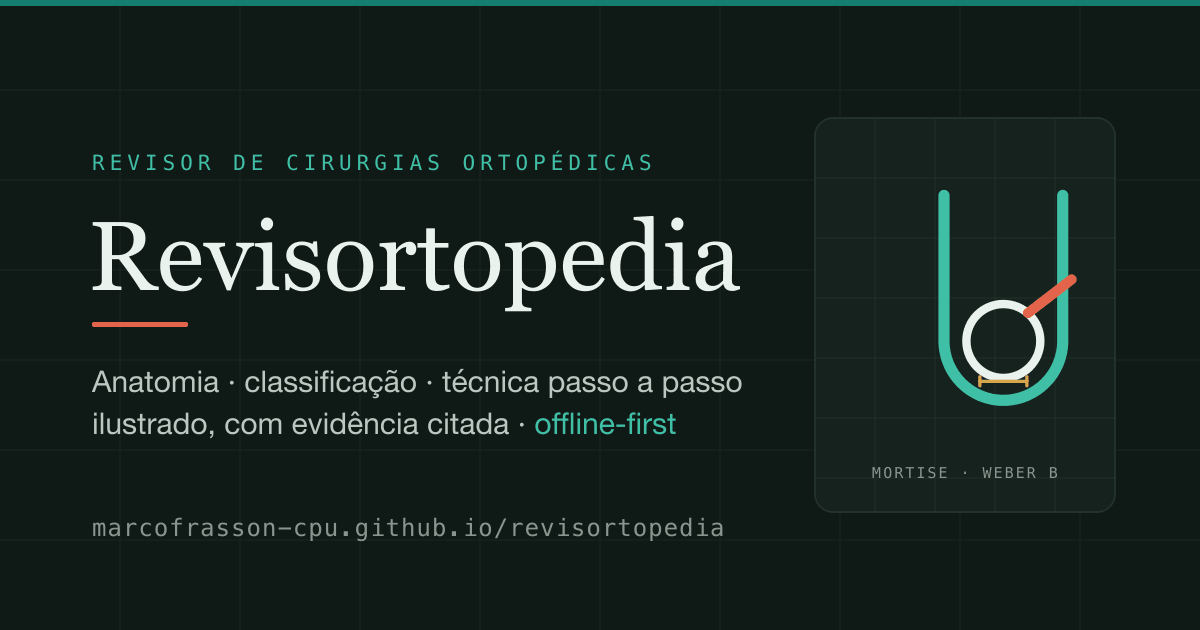
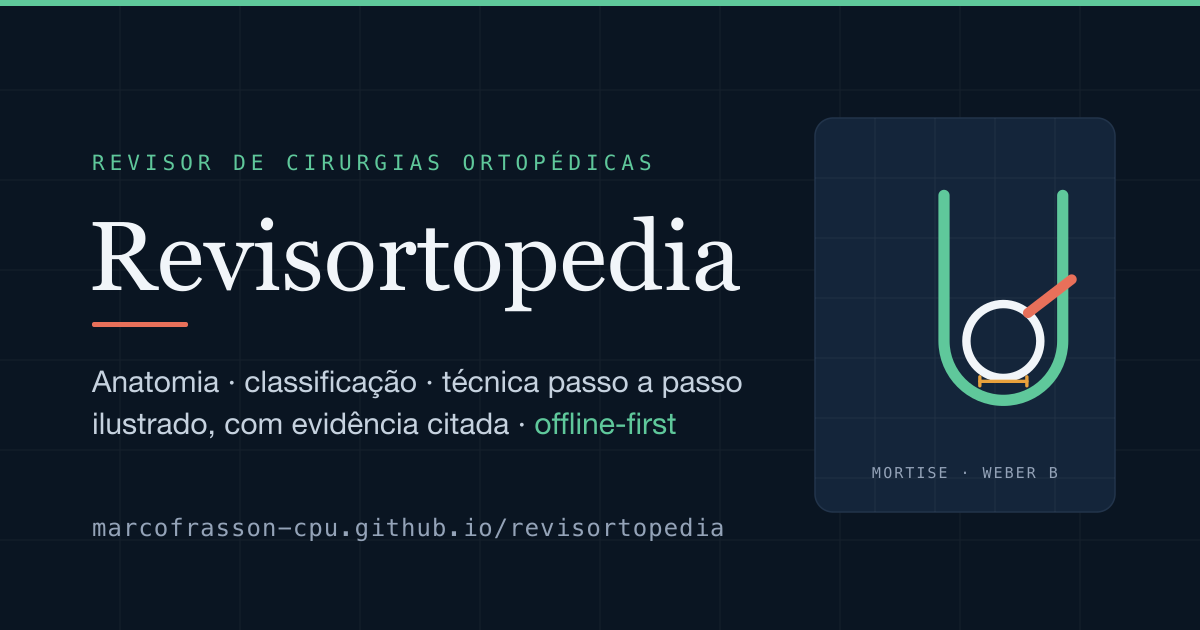
feat: navy (Axis FitoMed) dark palette, hide empty figure panel, credit pill
- Dark theme remapped to the Axis FitoMed palette: navy grounds
  (#0a1522 / #14253a), mint-green primary (#5fc89b), gold accent
  (#e8a13c), slate text. Light "atlas" theme unchanged.
- TopicView hides the sticky figure column on figure-less sections
  (e.g. Evidence) instead of showing an empty placeholder; content
  width stays stable so there's no reflow on scroll.
- Add "designed by Marco Frasson" credit pill in the nav footer.
- Update theme-color + PWA manifest to navy; regenerate the Open Graph
  share card to match (cache-bust v2).

diff --git a/src/index.css b/src/index.css
@@ -54,25 +54,25 @@
   color-scheme: light;
 }
 
-/* ---- Dark "light-box" (radiograph) ---- */
+/* ---- Dark "light-box" — navy palette (Axis FitoMed dark) ---- */
 :root[data-theme="dark"] {
-  --bg: #0f1a17;
-  --surface: #15221e;
-  --surface-2: #1c2a25;
-  --ink: #e9efea;
-  --ink-soft: #bcc7c0;
-  --muted: #8a968f;
-  --line: #28372f;
-  --line-strong: #3a4c43;
-  --teal: #43c2a8;
-  --teal-deep: #57c8ae;
-  --teal-tint: #123029;
-  --cortical: #e4644b;
-  --cortical-tint: #2e1a15;
-  --amber: #d6a64a;
-  --amber-tint: #2c2413;
-  --grid-ink: 233 239 234;
-  --shadow-panel: 0 1px 2px rgba(0, 0, 0, 0.3), 0 10px 30px -14px rgba(0, 0, 0, 0.55);
+  --bg: #0a1522;          /* ground-deep */
+  --surface: #14253a;     /* brand-navy-lighter */
+  --surface-2: #1c2f47;   /* card-hover */
+  --ink: #f1f5f9;         /* text-primary */
+  --ink-soft: #c6d2df;    /* lead */
+  --muted: #94a3b8;       /* text-muted */
+  --line: #22344b;
+  --line-strong: #2f465f;
+  --teal: #5fc89b;        /* brand-green (primary) */
+  --teal-deep: #86dcb4;
+  --teal-tint: #123a30;
+  --cortical: #e8705a;    /* semantic danger / fracture line */
+  --cortical-tint: #3a1e18;
+  --amber: #e8a13c;       /* oil / measurements */
+  --amber-tint: #3a2a12;
+  --grid-ink: 241 245 249;
+  --shadow-panel: 0 1px 2px rgba(0, 0, 0, 0.35), 0 12px 36px -14px rgba(0, 0, 0, 0.5);
   color-scheme: dark;
 }
 

diff --git a/src/components/topic/TopicView.tsx b/src/components/topic/TopicView.tsx
@@ -256,8 +256,15 @@ export default function TopicView({ topic }: { topic: Topic }) {
 
       <SectionRail visible={visible} active={active} />
 
-      <div className="lg:grid lg:grid-cols-[minmax(0,1fr)_360px] lg:gap-10">
-        <div ref={contentRef}>
+      <div
+        className={cx(
+          "lg:gap-10",
+          // Reserve the figure column only when the active section has a
+          // figure — figure-less sections (e.g. evidence) reclaim the space.
+          focused?.figureId && "lg:grid lg:grid-cols-[minmax(0,1fr)_auto]",
+        )}
+      >
+        <div ref={contentRef} className="lg:max-w-[760px]">
           {visible.map((k) => (
             <section
               id={`sec-${k}`}
@@ -299,8 +306,9 @@ export default function TopicView({ topic }: { topic: Topic }) {
           </nav>
         </div>
 
-        {/* Sticky figure panel — desktop only */}
-        <aside className="hidden lg:block">
+        {/* Sticky figure panel — desktop only, hidden when the section has no figure */}
+        {focused?.figureId && (
+        <aside className="hidden lg:block lg:w-[350px]">
           <div className="sticky top-24">
             <FigurePanel
               figureId={focused?.figureId}
@@ -328,6 +336,7 @@ export default function TopicView({ topic }: { topic: Topic }) {
             </p>
           </div>
         </aside>
+        )}
       </div>
     </div>
   );

diff --git a/src/components/layout/NavTree.tsx b/src/components/layout/NavTree.tsx
@@ -179,6 +179,17 @@ export default function NavTree() {
             }}
           />
         </div>
+
+        {/* Credit pill */}
+        <div className="mt-3 flex justify-center">
+          <span className="inline-flex items-center gap-1.5 rounded-full border border-line bg-surface-2/60 px-2.5 py-1">
+            <span className="h-1.5 w-1.5 rounded-full bg-teal" />
+            <span className="code text-[0.6rem] uppercase tracking-[0.14em] text-muted">
+              designed by
+            </span>
+            <span className="text-[0.72rem] font-medium text-ink-soft">Marco Frasson</span>
+          </span>
+        </div>
       </div>
     </div>
   );

diff --git a/index.html b/index.html
@@ -4,7 +4,7 @@
     <meta charset="UTF-8" />
     <link rel="icon" type="image/svg+xml" href="./favicon.svg" />
     <meta name="viewport" content="width=device-width, initial-scale=1.0, viewport-fit=cover" />
-    <meta name="theme-color" content="#0f1a17" />
+    <meta name="theme-color" content="#0a1522" />
     <meta
       name="description"
       content="Revisortopedia — revisor de cirurgias ortopédicas interativo, ilustrado, passo a passo, com evidência citada. Offline-first."
@@ -19,8 +19,8 @@
       content="Referência interativa e ilustrada de cirurgias ortopédicas (estilo AO), passo a passo, com evidência citada. Offline-first."
     />
     <meta property="og:url" content="https://marcofrasson-cpu.github.io/revisortopedia/" />
-    <meta property="og:image" content="https://marcofrasson-cpu.github.io/revisortopedia/og.png?v=1" />
-    <meta property="og:image:secure_url" content="https://marcofrasson-cpu.github.io/revisortopedia/og.png?v=1" />
+    <meta property="og:image" content="https://marcofrasson-cpu.github.io/revisortopedia/og.png?v=2" />
+    <meta property="og:image:secure_url" content="https://marcofrasson-cpu.github.io/revisortopedia/og.png?v=2" />
     <meta property="og:image:type" content="image/png" />
     <meta property="og:image:width" content="1200" />
     <meta property="og:image:height" content="630" />
@@ -32,7 +32,7 @@
       name="twitter:description"
       content="Referência interativa e ilustrada de cirurgias ortopédicas (estilo AO), passo a passo, com evidência citada. Offline-first."
     />
-    <meta name="twitter:image" content="https://marcofrasson-cpu.github.io/revisortopedia/og.png?v=1" />
+    <meta name="twitter:image" content="https://marcofrasson-cpu.github.io/revisortopedia/og.png?v=2" />
 
     <title>Revisortopedia — Revisor de Cirurgias Ortopédicas</title>
   </head>

diff --git a/vite.config.ts b/vite.config.ts
@@ -22,8 +22,8 @@ export default defineConfig({
         description:
           "Referência ortopédica interativa e ilustrada, passo a passo, com evidência citada. Offline-first.",
         lang: "pt-BR",
-        theme_color: "#0f1a17",
-        background_color: "#0f1a17",
+        theme_color: "#0a1522",
+        background_color: "#0a1522",
         display: "standalone",
         orientation: "any",
         start_url: "./",